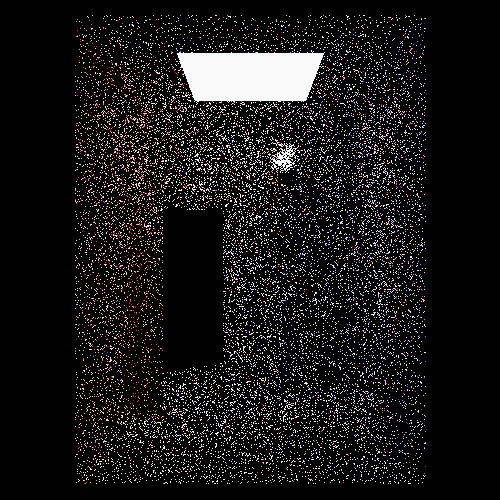
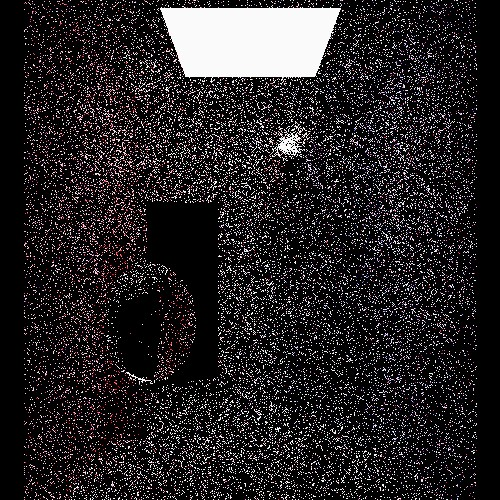
add app destructor, change random generators

diff --git a/include/core/Random.h b/include/core/Random.h
@@ -16,45 +16,39 @@
 #include <random>
 
 namespace random {
-  typedef std::uniform_real_distribution<float> uniform_f;
-  typedef std::uniform_int_distribution<int>  uniform_i;
-  typedef std::uniform_int_distribution<uint32_t> uniform_ui;
+  typedef std::uniform_int_distribution<int> udi_t;
+  typedef std::uniform_real_distribution<float> udf_t;
+  typedef std::uniform_int_distribution<uint32_t> udui_t;
 
   static std::random_device device;
   static std::mt19937 generator(device());
-  static uniform_f distribution01(0.0f, 1.0f);
 
-  inline float uniformfloat() 
-  {
-    return distribution01(generator);
-  }
+  // uniform float in range [0,1]
+  static udf_t udf_0_1(0.0f, 1.0f);
+  // uniform float in range [-1,1]
+  static udf_t udf_m1_1(-1.0f, 1.0f);
 
-  inline float uniformfloat(float min, float max) 
+  inline float uniform_float(float min, float max) 
   {
-    static uniform_f distribution(min, max);
+    static udf_t distribution(min, max);
     return distribution(generator);
   }
 
-  inline int uniformint(int min, int max) 
+  inline int uniform_int(int min, int max) 
   {
-    static uniform_i distribution(min, max);
+    static udi_t distribution(min, max);
     return distribution(generator);
   }
 
-  inline uint32_t uniformuint32_t(uint32_t min, uint32_t max)
+  inline uint32_t uniform_uint32_t(uint32_t min, uint32_t max)
   {
-    static uniform_ui distribution(min, max);
+    static udui_t distribution(min, max);
     return distribution(generator);
   }
 
   inline Vector2 uniformUV() 
   {
-    return { distribution01(generator), distribution01(generator) };
-  }
-
-  inline Vector3 uniformVector3(float min, float max)
-  {
-    return { uniformfloat(min, max), uniformfloat(min, max), uniformfloat(min, max) };
+    return { udf_0_1(generator), udf_0_1(generator) };
   }
 };
 

diff --git a/src/app/Application.cpp b/src/app/Application.cpp
@@ -49,6 +49,15 @@ Application::Application()
   status = 0; // all is well
 }
 
+Application::~Application()
+{
+  UserInterface::get().terminate();
+
+  glfwDestroyWindow(window.getWindowPointer());
+
+  glfwTerminate();
+}
+
 int Application::run(char* sceneName)
 {
   if (status != 0)
@@ -64,8 +73,6 @@ int Application::run(char* sceneName)
   scene.buildBVH();
 
   renderLoop(&scene);
-
-  terminate();
 
   return 0;
 }
@@ -134,13 +141,4 @@ void Application::renderLoop(Scene* scene)
     glfwSwapBuffers(window.getWindowPointer());
     glfwPollEvents();
   }
-}
-
-void Application::terminate()
-{
-  UserInterface::get().terminate();
-
-  glfwDestroyWindow(window.getWindowPointer());
-
-  glfwTerminate();
 }

diff --git a/src/render/raytracer/RayTracer.cpp b/src/render/raytracer/RayTracer.cpp
@@ -56,7 +56,7 @@ void RayTracer::rayTrace(const Scene* scene, const Camera* camera)
         for (uint32_t sample = 0; sample < (uint32_t)numSamples; ++sample)
         {
           colour += castRay(scene, Ray::generateCameraRay(camera, 
-            { (row + random::uniformfloat()) * rWidth, (col + random::uniformfloat()) * rHeight }), MAX_DEPTH);
+            { (row + random::udf_0_1(random::generator)) * rWidth, (col + random::udf_0_1(random::generator)) * rHeight }), MAX_DEPTH);
         }
         colour *= inversNumSamples;
         rayTracedData.writePixelColour(row, col, &colour[0]);

diff --git a/include/render/materials/Dielectric.h b/include/render/materials/Dielectric.h
@@ -29,7 +29,7 @@ public:
     float cosTheta = fmin(surfel.normal.dot(-inRay.direction), 1.0f);
     float sinTheta = sqrtf(1.0f - cosTheta * cosTheta);
 
-    if ((refractionRatio * sinTheta > 1.0f) || (reflectanceSchlick(cosTheta, refractionRatio) > random::uniformfloat()))
+    if ((refractionRatio * sinTheta > 1.0f) || (reflectanceSchlick(cosTheta, refractionRatio) > random::udf_0_1(random::generator)))
     {
       outRay = { surfel.position + 0.001f * surfel.normal, Vector3::reflect(inRay.direction, surfel.normal), INFINITY };
     }

diff --git a/include/render/materials/Mixture.h b/include/render/materials/Mixture.h
@@ -19,7 +19,7 @@ public:
   virtual bool scatter(const Ray& inRay, const Surfel& surfel, Colour& attenuation, Ray& outRay) const override
   {
     float metallicity = maps[MAT_MAPS::METALLIC]->sampleChannel(surfel.uv, 0);
-    if (random::uniformfloat() < metallicity)
+    if (random::udf_0_1(random::generator) < metallicity)
     {
       // specular
       float cosTheta = fmin(surfel.normal.dot(-inRay.direction), 1.0f);

diff --git a/src/render/raytracer/UniformSampler.cpp b/src/render/raytracer/UniformSampler.cpp
@@ -54,7 +54,7 @@ Vector3 UniformSampler::unitSphere()
   Vector3 vector;
   while (true)
   {
-    vector = random::uniformVector3(-1.0f, 1.0f);
+    vector = { random::udf_m1_1(random::generator), random::udf_m1_1(random::generator), random::udf_m1_1(random::generator) };
     if (vector.lengthSquared() >= 1.0f)
     {
       continue;

diff --git a/src/main.cpp b/src/main.cpp
@@ -21,6 +21,7 @@ int main(int argc, char* argv[])
   else
   {
 #ifdef NDEBUG
+    return app.run("cornellbox.scene");
     ERROR_MSG("To use app:\n>RAYTRACER.exe scene\nMake sure .scene file is in the scenes folder");
     return -1;
 #else

diff --git a/include/app/Application.h b/include/app/Application.h
@@ -20,11 +20,11 @@ class Application
 public:
   Application();
 
+  ~Application();
+
   int run(char* sceneName);
 
 private:
-  void terminate();
-
   void renderLoop(Scene* scene);
 
 protected:
